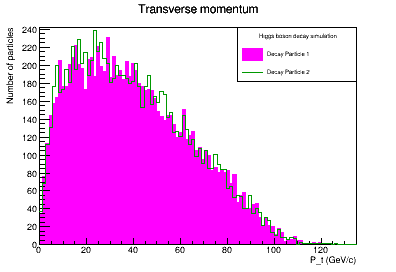
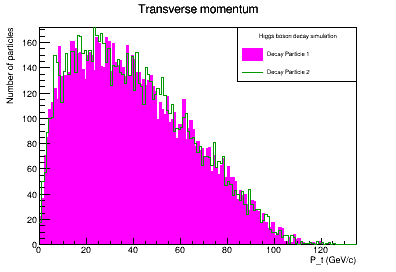
Promjena broja binova

Changed region(s): [[0.0606, 0.0882, 0.8485, 0.9118]]

diff --git a/Vjezbe_5/Analyzer.cpp b/Vjezbe_5/Analyzer.cpp
@@ -9,8 +9,8 @@
 
 void Analyzer::PlotHistogram()
 {
-    TH1F *h1 = new TH1F("h1", "Transverse P 1", 100, 0., 135.);
-    TH1F *h2 = new TH1F("h2", "Transverse P 2", 100, 0., 135.);
+    TH1F *h1 = new TH1F("h1", "Transverse P 1", 135, 0., 135.);
+    TH1F *h2 = new TH1F("h2", "Transverse P 2", 135, 0., 135.);
     TCanvas c("c", "V5 ZAD2", 0,0,400,300);
     TFile *fout = TFile::Open("H_TransP_12.root", "RECREATE");
     

diff --git a/Vjezbe_5/main.cpp b/Vjezbe_5/main.cpp
@@ -6,7 +6,7 @@ int main(){
 	
 	Analyzer *a = new Analyzer();
 	
-	a->Loop(); //dodaj u Loop() ispis varijabli
-	//a->PlotHistogram();
+	//a->Loop(); //dodaj u Loop() ispis varijabli
+	a->PlotHistogram();
 	return 0;
 }
